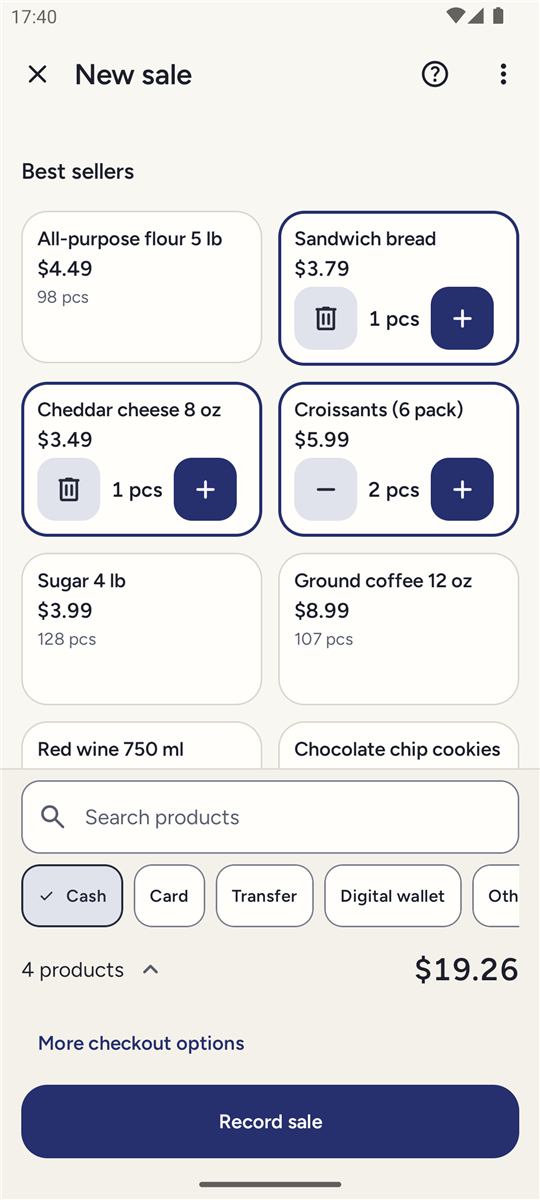
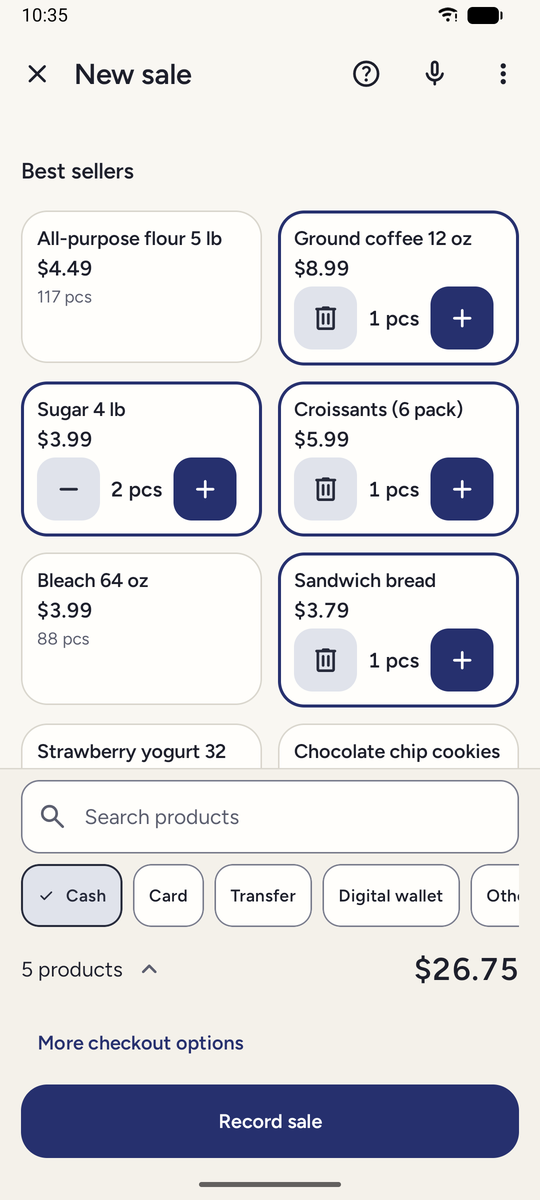
docs: el README con capturas nuevas junto a su texto
Arriba quedan dos capturas, Inicio con la barra nueva y el micrófono, y la tarjeta
de Decir. En Funciones, Decir tiene su párrafo, y Vender y Gastos llevan cada uno
su captura al lado del texto; lo demás sigue en lista.

También pone al día lo que había quedado viejo: la versión de la etiqueta, la
búsqueda diaria de versiones en privacidad y en actualizar, y los permisos de
micrófono y de avisos. Las capturas son de datos inventados.

diff --git a/README.md b/README.md
@@ -5,7 +5,7 @@
 **Productos, stock, costos, ventas, gastos y ganancias de un emprendimiento, desde el celular. Sin internet, sin servidores y con
 respaldo en la nube que tú elijas.**
 
-![Versión](https://img.shields.io/badge/versión-1.0.0-43e5a0)
+![Versión](https://img.shields.io/badge/versión-1.0.7-43e5a0)
 ![Plataforma](https://img.shields.io/badge/plataforma-Android%208.0%2B-2f5fb3)
 ![Idiomas](https://img.shields.io/badge/idiomas-español%20%7C%20english%20%7C%20português-7ddc8f)
 [![Licencia: MIT](https://img.shields.io/badge/licencia-MIT-blue)](LICENSE)
@@ -13,8 +13,8 @@ respaldo en la nube que tú elijas.**
 
 **Español** · [English](README.en.md) · [Cambios por versión](CHANGELOG.md)
 
-<img src="docs/images/home.png" alt="Inicio con las ventas de hoy y la ganancia del mes" width="280">
-<img src="docs/images/sale.png" alt="Una venta nueva con cuatro productos en el carrito" width="280">
+<img src="docs/images/home.png" alt="Inicio con las ventas de hoy, la ganancia del mes y el botón del micrófono" width="250">
+<img src="docs/images/say.png" alt="Decir o escribir con una tarjeta de compra de tres productos" width="250">
 
 </div>
 
@@ -53,27 +53,64 @@ app está en español, inglés y portugués.
 
 ## ✨ Funciones
 
+### 🎙 Dilo y queda anotado
+
+Toca el micrófono, abajo a la derecha, y di lo que pasó: «vendí 2 empanadas en efectivo», «compré 3 kilos de harina a 9.000» o
+«hice 10 panes». La app arma una tarjeta con lo que entendió y nada se guarda hasta que tocas **Registrar**. Con la tarjeta
+abierta, lo que dices después suma o corrige, nunca borra. Funciona sin internet, con el reconocimiento de voz del teléfono, y
+no guarda audio. También puedes escribirlo.
+
+<table>
+<tr>
+<td width="55%">
+
+### 🛒 Vender
+
+Busca el producto, escanéalo o dilo, y cobra con uno o varios métodos de pago.
+
 - **Vende en pocos toques:** varios métodos de pago en una venta, comisiones y neto recibido, cambio, propinas, descuentos y ventas
   en espera. Una venta nunca se borra: anularla deja un registro compensatorio.
 - **Clientes y crédito:** ventas a crédito, abonos, extractos, saldo a favor y puntos. Solo se pide el nombre. Los recordatorios los
   envías tú, uno por uno, con la app que elijas.
-- **Productos a tu manera:** unidades y conversiones, servicios, variantes, combos y recetas, fotos, campos propios, listas de
-  precios y actualización masiva de precios con alertas de margen.
 - **Escáner de códigos** con la cámara o con un lector externo, y códigos y etiquetas propios para imprimir.
-- **El stock es un libro:** cada cambio es un movimiento que nunca se edita. Lotes y vencimientos, números de serie, ubicaciones y
-  transferencias, producción, reposición sugerida y conteo a ciegas.
-- **Compras y proveedores:** costo promedio y de reposición, compras a plazo con pagos parciales y vencimientos, y devoluciones al
-  proveedor.
-- **Devoluciones y cambios de producto** que conservan el costo original, para que la ganancia y los reportes sigan bien.
+- **Documentos:** comprobantes de venta en PDF o imagen, cotizaciones, pedidos y entregas, y un catálogo para compartir. Son
+  documentos internos, nunca facturas. Impresión en impresoras térmicas Bluetooth emparejadas o con el servicio de impresión del
+  sistema.
+
+</td>
+<td align="center" width="45%"><img src="docs/images/sale.png" alt="Una venta nueva con cuatro productos en el carrito" width="250"></td>
+</tr>
+</table>
+
+<table>
+<tr>
+<td align="center" width="45%"><img src="docs/images/expenses.png" alt="Gastos del mes con su parte por categoría" width="250"></td>
+<td width="55%">
+
+### 💸 Gastos y ganancia
+
+**Gastos**, en la barra de abajo, muestra los gastos del mes y **Por categoría** cuánto se lleva cada una.
+
 - **Gastos, gastos recurrentes y dinero:** cuentas con su saldo, retiros, aportes y transferencias, y sesiones de caja con conteo por
   denominación.
 - **Ganancia y margen confiables:** ganancia en ventas y ganancia final del mes, impuestos con las tasas que tú escribes (incluidos o
   añadidos) y una gráfica por día. Los montos se guardan como números enteros, nunca con decimales flotantes.
 - **Reportes:** resumen de gestión, flujo de caja proyectado, punto de equilibrio, metas, análisis de productos y clientes, resumen
   diario y comparación en términos reales.
-- **Documentos:** comprobantes de venta en PDF o imagen, cotizaciones, pedidos y entregas, y un catálogo para compartir. Son
-  documentos internos, nunca facturas. Impresión en impresoras térmicas Bluetooth emparejadas o con el servicio de impresión del
-  sistema.
+
+</td>
+</tr>
+</table>
+
+### Y además
+
+- **Productos a tu manera:** unidades y conversiones, servicios, variantes, combos y recetas, fotos, campos propios, listas de
+  precios y actualización masiva de precios con alertas de margen.
+- **El stock es un libro:** cada cambio es un movimiento que nunca se edita. Lotes y vencimientos, números de serie, ubicaciones y
+  transferencias, producción, reposición sugerida y conteo a ciegas.
+- **Compras y proveedores:** costo promedio y de reposición, compras a plazo con pagos parciales y vencimientos, y devoluciones al
+  proveedor.
+- **Devoluciones y cambios de producto** que conservan el costo original, para que la ganancia y los reportes sigan bien.
 - **Importar y exportar:** trae productos desde CSV o una hoja de cálculo, y saca todo a CSV o `.xlsx` cuando quieras.
 - **Copias en la nube que elijas,** con cifrado opcional y un código de recuperación. Mira [Copias de seguridad](#-copias-de-seguridad).
 - **Privacidad en el celular:** bloqueo con la huella, el rostro o el PIN del teléfono, un modo discreto que oculta los montos, un
@@ -105,11 +142,13 @@ Perder los datos es lo peor que le puede pasar a un negocio, así que esto va pr
 ## 🔒 Privacidad
 
 - **Sin cuenta, sin anuncios, sin analítica, sin reportes de fallos y sin rastreo.** La app funciona completa sin internet.
-- **Solo se conecta a dos lugares:** el servicio WebDAV que elijas y, solo cuando tocas **Buscar actualización**, el aviso de versión
-  firmado en `https://yesid-robayo.github.io/Impulsito/version.json`. Esa consulta no envía ningún dato: el servidor solo ve tu
-  dirección IP, como en cualquier petición web.
-- **Permisos solo cuando hacen falta:** la cámara al escanear o tomar una foto, y Bluetooth solo para impresoras emparejadas. La app
-  no lee tus contactos: eliges uno con el selector del sistema.
+- **Solo se conecta a dos lugares:** el servicio WebDAV que elijas y el aviso de versión firmado en
+  `https://yesid-robayo.github.io/Impulsito/version.json`, una vez al día y cuando tocas **Buscar actualización**. Esa consulta no
+  envía ningún dato: el servidor solo ve tu dirección IP, como en cualquier petición web. La búsqueda diaria se apaga en
+  **Actualizaciones y verificación de APK**.
+- **Permisos solo cuando hacen falta:** el micrófono mientras escuchas para **Decir**, la cámara al escanear o tomar una foto,
+  Bluetooth solo para impresoras emparejadas, y las notificaciones para avisar de las copias, los recordatorios y las versiones
+  nuevas. La app no lee tus contactos: eliges uno con el selector del sistema.
 - Lee la [política de privacidad](https://yesid-robayo.github.io/Impulsito/#privacy) y los
   [términos de uso](https://yesid-robayo.github.io/Impulsito/#terms).
 
@@ -118,17 +157,17 @@ Perder los datos es lo peor que le puede pasar a un negocio, así que esto va pr
 Impulsito no está en ninguna tienda de aplicaciones. El único lugar oficial para obtenerla son los
 [Releases](https://github.com/Yesid-Robayo/Impulsito/releases) de este repositorio.
 
-1. Descarga `impulsito-1.0.0.apk` del release.
+1. Descarga `impulsito-1.0.7.apk` del release.
 2. **Compruébalo antes de instalar.** En un computador con las herramientas de compilación del SDK de Android, compara su SHA-256 con
    el de las notas del release, y su certificado de firma con la huella de abajo. En PowerShell:
 
    ```powershell
    $bt = (Get-ChildItem "$env:ANDROID_HOME\build-tools" | Sort-Object Name | Select-Object -Last 1).FullName
-   & "$bt\apksigner.bat" verify --print-certs --verbose -Werr .\impulsito-1.0.0.apk
-   Get-FileHash -Algorithm SHA256 .\impulsito-1.0.0.apk
+   & "$bt\apksigner.bat" verify --print-certs --verbose -Werr .\impulsito-1.0.7.apk
+   Get-FileHash -Algorithm SHA256 .\impulsito-1.0.7.apk
    ```
 
-   En Linux o macOS, `apksigner verify --print-certs impulsito-1.0.0.apk` y `sha256sum impulsito-1.0.0.apk` hacen lo mismo.
+   En Linux o macOS, `apksigner verify --print-certs impulsito-1.0.7.apk` y `sha256sum impulsito-1.0.7.apk` hacen lo mismo.
 
    La línea `Signer #1 certificate SHA-256 digest` debe mostrar el certificado de release, con o sin dos puntos:
 
@@ -149,7 +188,8 @@ certificado.
 **La app nunca descarga ni instala nada por su cuenta:** solo cuando tú lo pides.
 
 1. Haz una copia y comprueba que sea reciente.
-2. **Buscar actualización** te dice si hay una versión nueva. Es opcional y solo se ejecuta cuando la tocas.
+2. Una vez al día, la app mira si hay una versión nueva y te avisa con una notificación y en **Inicio**. **Buscar
+   actualización** lo mira en el momento. La búsqueda diaria se apaga con **Buscar actualizaciones automáticamente**.
 3. Desde la `1.0.2`, toca **Actualizar**: la app baja esa versión de [Releases](https://github.com/Yesid-Robayo/Impulsito/releases),
    comprueba que sea el archivo anunciado en el aviso firmado y que lleve la firma de la app, y Android te pide confirmar. La primera
    vez, Android también pide permitir que Impulsito instale sus actualizaciones.
@@ -162,7 +202,7 @@ Si Android rechaza una actualización porque la firma es distinta, el archivo no
 
 - **Kotlin** 2.4 y **Jetpack Compose** (BOM 2026.09.00) con Material 3, Navigation 3 y el diseño adaptable para tabletas.
 - **Room** 3 con su propio **SQLite empaquetado**, para que la base se comporte igual en todos los celulares.
-- **WorkManager** para las copias automáticas, **OkHttp** 5 solo para WebDAV y el aviso de versión, y **Tink** 1.24 para el cifrado
+- **WorkManager** para las copias automáticas y la búsqueda diaria de versiones, **OkHttp** 5 solo para WebDAV y el aviso de versión, y **Tink** 1.24 para el cifrado
   opcional de las copias.
 - **CameraX** y **zxing-cpp** para el escáner, **Vico** para las gráficas y **Glance** para el widget.
 - Tres módulos: `domain` (reglas del negocio, Kotlin puro), `data` (base, copias y red) y `app` (pantallas).

diff --git a/README.en.md b/README.en.md
@@ -5,7 +5,7 @@
 **Products, inventory, costs, sales, expenses and profit for a small business, from the phone. Offline, with no servers, and
 backed up to the cloud you choose.**
 
-![Version](https://img.shields.io/badge/version-1.0.0-43e5a0)
+![Version](https://img.shields.io/badge/version-1.0.7-43e5a0)
 ![Platform](https://img.shields.io/badge/platform-Android%208.0%2B-2f5fb3)
 ![Languages](https://img.shields.io/badge/languages-español%20%7C%20english%20%7C%20português-7ddc8f)
 [![License: MIT](https://img.shields.io/badge/license-MIT-blue)](LICENSE)
@@ -13,8 +13,8 @@ backed up to the cloud you choose.**
 
 [Español](README.md) · **English** · [Changelog](CHANGELOG.en.md)
 
-<img src="docs/images/home-en.png" alt="Home screen with today's sales and the month's profit" width="280">
-<img src="docs/images/sale-en.png" alt="A new sale with four products in the cart" width="280">
+<img src="docs/images/home-en.png" alt="Home with today's sales, the month's profit and the microphone button" width="250">
+<img src="docs/images/say-en.png" alt="Say or type with a purchase card of three products" width="250">
 
 </div>
 
@@ -54,26 +54,63 @@ payment methods. The app is in Spanish, English and Portuguese.
 
 ## ✨ Features
 
+### 🎙 Say it and it's written down
+
+Tap the microphone at the bottom right and say what happened: "sold 2 empanadas in cash", "bought 3 kilos of flour at 9,000" or
+"made 10 loaves". The app builds a card with what it understood, and nothing is saved until you tap **Register**. With the card
+open, whatever you say next adds or corrects, never clears. It works offline, with the phone's speech recognition, and keeps no
+audio. You can also type it.
+
+<table>
+<tr>
+<td width="55%">
+
+### 🛒 Sell
+
+Search for the product, scan it or say it, and take payment with one or several methods.
+
 - **Sell in a few taps:** several payment methods in one sale, payment fees and net received, change, tips, discounts and held sales.
   A sale is never deleted: voiding it leaves a compensating record.
 - **Customers and credit:** sales on credit, payments on account, statements, credit balance and loyalty points. Only the name is
   required. Reminders are sent by you, one by one, through the app you choose.
-- **Products your way:** units and conversions, services, variants, combos and recipes, photos, your own fields, price lists and
-  bulk price updates with margin alerts.
 - **Barcode scanner** with the camera or an external reader, and your own codes and labels to print.
-- **Inventory as a ledger:** every stock change is a movement that is never edited. Batches and expiry dates, serial numbers,
-  locations and transfers, production, suggested reorders and blind counts.
-- **Purchases and suppliers:** average and replacement cost, purchases on credit with partial payments and due dates, and returns
-  to the supplier.
-- **Returns and exchanges** that keep the original cost, so profit and reports stay right.
+- **Documents:** sales receipts as PDF or image, quotes, orders and deliveries, and a shareable catalog. They are internal
+  documents, never invoices. Printing on paired Bluetooth thermal printers or through the system print service.
+
+</td>
+<td align="center" width="45%"><img src="docs/images/sale-en.png" alt="A new sale with four products in the cart" width="250"></td>
+</tr>
+</table>
+
+<table>
+<tr>
+<td align="center" width="45%"><img src="docs/images/expenses-en.png" alt="The month's expenses with each category's share" width="250"></td>
+<td width="55%">
+
+### 💸 Expenses and profit
+
+**Expenses**, in the bottom bar, shows the month's expenses, and **By category** how much each one takes.
+
 - **Expenses, recurring expenses and money:** accounts with their balances, withdrawals, contributions and transfers, and cash
   register sessions with a count by denomination.
 - **Profit and margin you can trust:** sales profit and final profit for the month, taxes with the rates you type in (included or
   added), and a daily chart. Amounts are stored as whole numbers, never as floating point.
 - **Reports:** management summary, projected cash flow, break-even, goals, product and customer analysis, daily summary and
   comparison in real terms.
-- **Documents:** sales receipts as PDF or image, quotes, orders and deliveries, and a shareable catalog. They are internal
-  documents, never invoices. Printing on paired Bluetooth thermal printers or through the system print service.
+
+</td>
+</tr>
+</table>
+
+### And also
+
+- **Products your way:** units and conversions, services, variants, combos and recipes, photos, your own fields, price lists and
+  bulk price updates with margin alerts.
+- **Inventory as a ledger:** every stock change is a movement that is never edited. Batches and expiry dates, serial numbers,
+  locations and transfers, production, suggested reorders and blind counts.
+- **Purchases and suppliers:** average and replacement cost, purchases on credit with partial payments and due dates, and returns
+  to the supplier.
+- **Returns and exchanges** that keep the original cost, so profit and reports stay right.
 - **Import and export:** bring products from CSV or a spreadsheet, and take everything out to CSV or `.xlsx` whenever you want.
 - **Backups to the cloud you choose,** with optional encryption and a recovery code. See [Backups](#-backups).
 - **Privacy on the phone:** app lock with the phone's fingerprint, face or PIN, a discreet mode that hides amounts, an audit
@@ -105,11 +142,12 @@ Losing the data is the worst thing that can happen to a business, so this part c
 ## 🔒 Privacy
 
 - **No account, no ads, no analytics, no crash reporting and no tracking.** The app works fully offline.
-- **It only connects to two places:** the WebDAV service you choose, and, only when you tap **Check for update**, the signed version
-  notice at `https://yesid-robayo.github.io/Impulsito/version.json`. That check sends no data: the host only sees your IP address,
-  as with any web request.
-- **Permissions only when needed:** the camera when you scan or take a photo, and Bluetooth only for paired printers. The app
-  doesn't read your contacts: you pick one with the system picker.
+- **It only connects to two places:** the WebDAV service you choose, and the signed version notice at
+  `https://yesid-robayo.github.io/Impulsito/version.json`, once a day and when you tap **Check for update**. That check sends no
+  data: the host only sees your IP address, as with any web request. The daily check is turned off in **Updates and APK check**.
+- **Permissions only when needed:** the microphone while you're listening for **Say**, the camera when you scan or take a photo,
+  Bluetooth only for paired printers, and notifications to tell you about backups, reminders and new versions. The app doesn't
+  read your contacts: you pick one with the system picker.
 - Read the [privacy policy](https://yesid-robayo.github.io/Impulsito/#privacy) and the
   [terms of use](https://yesid-robayo.github.io/Impulsito/#terms).
 
@@ -118,17 +156,17 @@ Losing the data is the worst thing that can happen to a business, so this part c
 Impulsito isn't in any app store. The only official place to get it is this repository's
 [Releases](https://github.com/Yesid-Robayo/Impulsito/releases).
 
-1. Download `impulsito-1.0.0.apk` from the release.
+1. Download `impulsito-1.0.7.apk` from the release.
 2. **Check it before installing.** On a computer with the Android SDK build tools, compare its SHA-256 with the one in the release
    notes, and its signing certificate with the fingerprint below. In PowerShell:
 
    ```powershell
    $bt = (Get-ChildItem "$env:ANDROID_HOME\build-tools" | Sort-Object Name | Select-Object -Last 1).FullName
-   & "$bt\apksigner.bat" verify --print-certs --verbose -Werr .\impulsito-1.0.0.apk
-   Get-FileHash -Algorithm SHA256 .\impulsito-1.0.0.apk
+   & "$bt\apksigner.bat" verify --print-certs --verbose -Werr .\impulsito-1.0.7.apk
+   Get-FileHash -Algorithm SHA256 .\impulsito-1.0.7.apk
    ```
 
-   On Linux or macOS, `apksigner verify --print-certs impulsito-1.0.0.apk` and `sha256sum impulsito-1.0.0.apk` do the same.
+   On Linux or macOS, `apksigner verify --print-certs impulsito-1.0.7.apk` and `sha256sum impulsito-1.0.7.apk` do the same.
 
    The line `Signer #1 certificate SHA-256 digest` must show the release certificate, with or without colons:
 
@@ -148,7 +186,8 @@ Impulsito needs Android 8.0 or newer. Inside the app, **Updates and APK check** 
 **The app never downloads or installs anything by itself:** only when you ask.
 
 1. Make a backup and check that it's recent.
-2. **Check for update** tells you whether there is a new version. It's optional and only runs when you tap it.
+2. Once a day, the app checks whether there is a new version and tells you with a notification and on **Home**. **Check for
+   update** checks right away. The daily check is turned off with **Check for updates automatically**.
 3. From `1.0.2`, tap **Update**: the app downloads that version from [Releases](https://github.com/Yesid-Robayo/Impulsito/releases),
    checks it's the file announced in the signed notice and carries the app's signature, and Android asks you to confirm. The first
    time, Android also asks to allow Impulsito to install its updates.
@@ -161,7 +200,7 @@ If Android refuses an update because the signature is different, the file isn't 
 
 - **Kotlin** 2.4 and **Jetpack Compose** (BOM 2026.09.00) with Material 3, Navigation 3 and the adaptive layout for tablets.
 - **Room** 3 with its own **bundled SQLite**, so the database behaves the same on every phone.
-- **WorkManager** for automatic backups, **OkHttp** 5 only for WebDAV and the version notice, and **Tink** 1.24 for the optional
+- **WorkManager** for automatic backups and the daily version check, **OkHttp** 5 only for WebDAV and the version notice, and **Tink** 1.24 for the optional
   backup encryption.
 - **CameraX** and **zxing-cpp** for the scanner, **Vico** for the charts and **Glance** for the widget.
 - Three modules: `domain` (business rules, plain Kotlin), `data` (database, backups and network) and `app` (screens).
